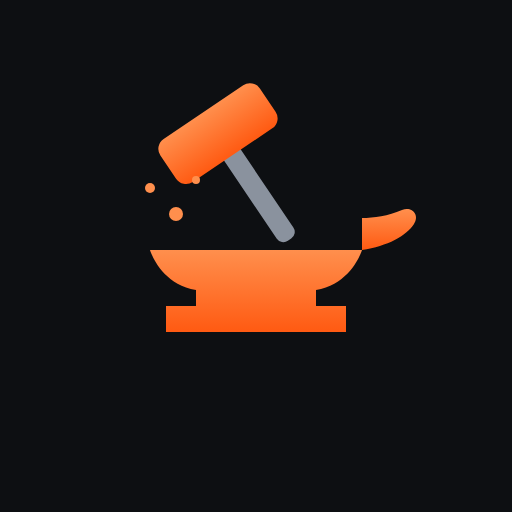
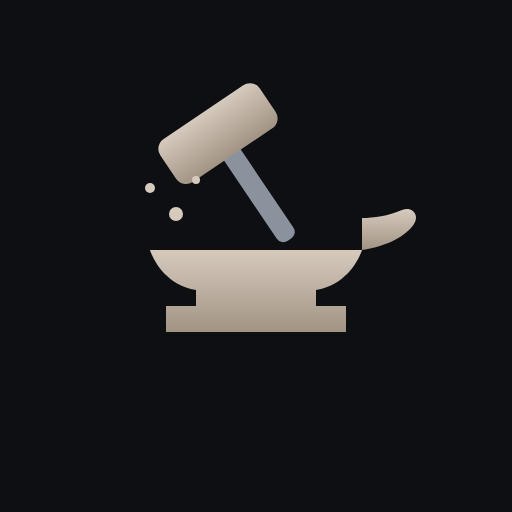
theme: replace ember accent with MALTA #c0b3a5
MALTA is a near-neutral (chroma 0.025), so two things could not be a
find-replace: the heatmap ramp was alpha-tinting the accent, which would have
collapsed its low steps into the empty-cell grey -- it is now four explicit
steps with even, verified contrast (1.74/1.60/1.56/1.50) climbing from a deep
stone; and the active tab, which used to be carried by hue alone, now leans on
weight and a thicker rule since MALTA sits close to --text-dim.

Contrast against the dark surface verified >= 3:1.

diff --git a/forge/src/components/Heatmap.tsx b/forge/src/components/Heatmap.tsx
@@ -22,7 +22,14 @@ export default function Heatmap({ points, max }: Props) {
     // 4 discrete steps read better than a continuous ramp at this cell size.
     return Math.min(4, Math.ceil((v / max) * 4));
   };
-  const alpha = [0, 0.25, 0.45, 0.7, 1];
+
+  /**
+   * Sequential ramp, one hue, monotonically lighter with intensity.
+   * MALTA is a near-neutral (chroma 0.025), so tinting it by alpha would
+   * collapse the low steps into the empty-cell grey — these are explicit
+   * steps stepping up in lightness from a deep stone instead.
+   */
+  const RAMP = ['#5c5148', '#7d7064', '#9e9184', '#c0b3a5'];
 
   return (
     <div className="heat" data-testid="heatmap">
@@ -46,9 +53,7 @@ export default function Heatmap({ points, max }: Props) {
                   data-level={lv}
                   title={`${p.date}: ${p.value} rep${p.value === 1 ? '' : 's'}`}
                   style={{
-                    background: lv === 0
-                      ? 'var(--steel)'
-                      : `rgba(255, 106, 43, ${alpha[lv]})`,
+                    background: lv === 0 ? 'var(--steel)' : RAMP[lv - 1],
                   }}
                 />
               );

diff --git a/forge/src/engine/rank.ts b/forge/src/engine/rank.ts
@@ -19,7 +19,7 @@ export const BANDS: Band[] = [
   { name: 'Recruit',     from: 1,  to: 5,  tier: 1, color: '#8a929e' },
   { name: 'Disciplined', from: 6,  to: 10, tier: 2, color: '#5b9dd9' },
   { name: 'Ironclad',    from: 11, to: 18, tier: 3, color: '#3ecf8e' },
-  { name: 'Vanguard',    from: 19, to: 25, tier: 4, color: '#ff6a2b' },
+  { name: 'Vanguard',    from: 19, to: 25, tier: 4, color: '#c0b3a5' },
   { name: 'Warlord',     from: 26, to: 30, tier: 5, color: '#e5484d' },
 ];
 

diff --git a/forge/src/index.css b/forge/src/index.css
@@ -7,7 +7,11 @@
   --steel: #2a2f38;
   --text: #e6e8eb;
   --text-dim: #8a929e;
-  --accent: #ff6a2b;
+  --accent: #c0b3a5;
+  /* rgb triplet of --accent, for rgba() tints */
+  --accent-rgb: 192, 179, 165;
+  /* Deep end of the sequential ramp; MALTA is too light to tint from alone. */
+  --accent-deep: #5c5148;
   --good: #3ecf8e;
   --bad: #e5484d;
 

diff --git a/forge/src/theme/tokens.ts b/forge/src/theme/tokens.ts
@@ -10,7 +10,7 @@ export const tokens = {
     steel: '#2a2f38',
     text: '#e6e8eb',
     textDim: '#8a929e',
-    accent: '#ff6a2b', // ember
+    accent: '#c0b3a5', // malta — warm stone
     good: '#3ecf8e',
     bad: '#e5484d',
   },
